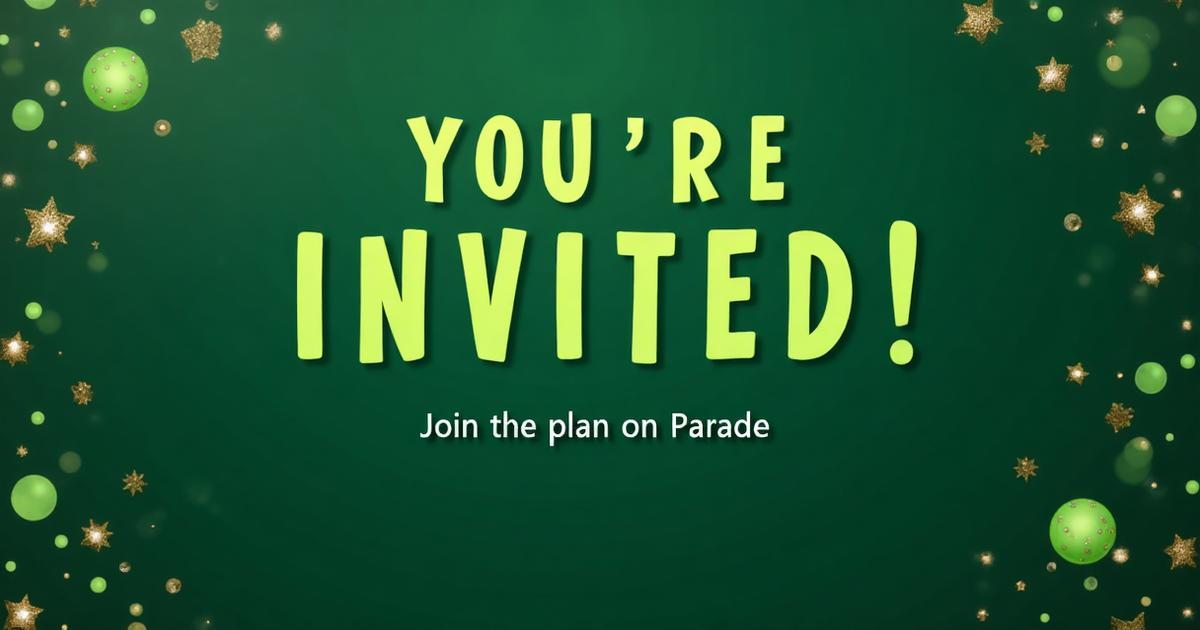
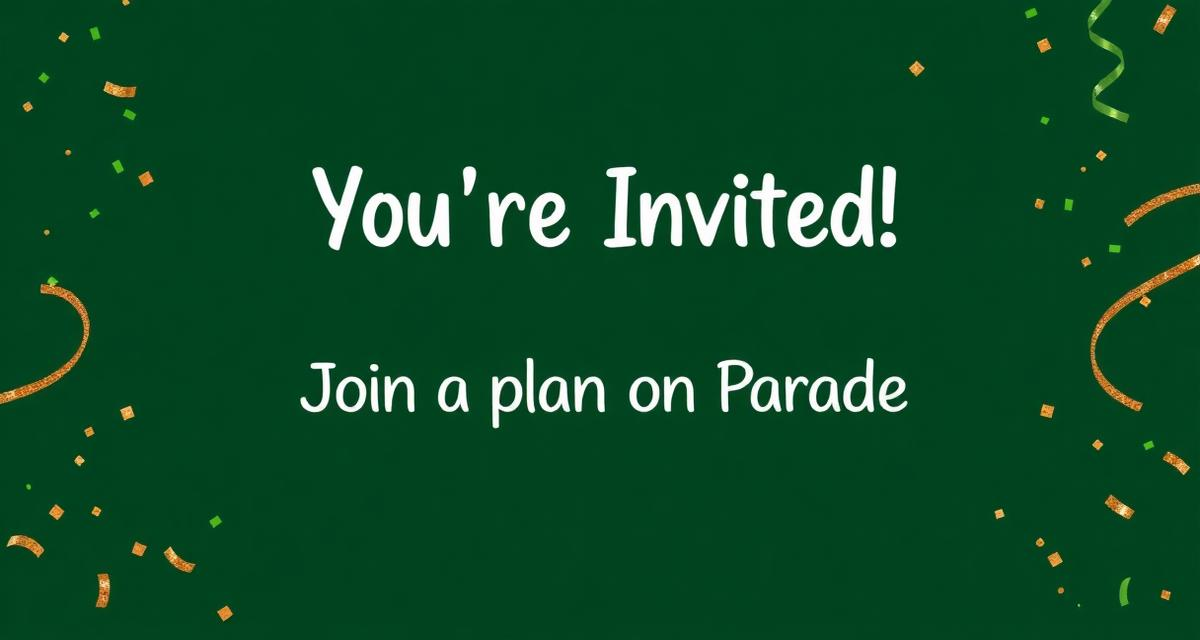
Changes

diff --git a/supabase/functions/plan-invite-og/index.ts b/supabase/functions/plan-invite-og/index.ts
@@ -1,0 +1,44 @@
+// deno-lint-ignore-file
+import { serve } from "https://deno.land/std@0.168.0/http/server.ts";
+
+serve((req) => {
+  const url = new URL(req.url);
+  const token = url.searchParams.get("token") || "";
+
+  // The OG image lives in the public folder of the deployed app
+  const ogImageUrl = "https://helloparade.app/og-invite.png";
+  const redirectUrl = `https://helloparade.app/plan-invite/${encodeURIComponent(token)}`;
+
+  const html = `<!DOCTYPE html>
+<html lang="en">
+<head>
+<meta charset="UTF-8" />
+<meta name="viewport" content="width=device-width, initial-scale=1.0" />
+<title>You're Invited! - Parade</title>
+<meta property="og:title" content="You're Invited! 🎉" />
+<meta property="og:description" content="You've been invited to join a plan on Parade. Tap to view details and RSVP!" />
+<meta property="og:type" content="website" />
+<meta property="og:image" content="${ogImageUrl}" />
+<meta property="og:image:width" content="1200" />
+<meta property="og:image:height" content="630" />
+<meta property="og:site_name" content="Parade" />
+<meta property="og:url" content="${redirectUrl}" />
+<meta name="twitter:card" content="summary_large_image" />
+<meta name="twitter:title" content="You're Invited! 🎉" />
+<meta name="twitter:description" content="You've been invited to join a plan on Parade. Tap to view details and RSVP!" />
+<meta name="twitter:image" content="${ogImageUrl}" />
+<meta http-equiv="refresh" content="0;url=${redirectUrl}" />
+</head>
+<body>
+<p>Redirecting to <a href="${redirectUrl}">Parade</a>...</p>
+</body>
+</html>`;
+
+  return new Response(html, {
+    status: 200,
+    headers: {
+      "content-type": "text/html; charset=utf-8",
+      "cache-control": "public, max-age=3600",
+    },
+  });
+});

diff --git a/src/components/plans/InviteToPlanDialog.tsx b/src/components/plans/InviteToPlanDialog.tsx
@@ -45,9 +45,10 @@ export function InviteToPlanDialog({ open, onOpenChange, planId, planTitle }: In
 
       if (error) throw error;
 
-      // Static HTML page at /i/ has OG meta tags for iMessage/social crawlers.
+      // Edge function serves HTML with OG meta tags for iMessage/social crawlers.
       // Crawlers see "You're Invited!" card; users get redirected to /plan-invite/TOKEN.
-      const ogLink = `https://helloparade.app/i/?t=${data.invite_token}`;
+      const supabaseUrl = import.meta.env.VITE_SUPABASE_URL;
+      const ogLink = `${supabaseUrl}/functions/v1/plan-invite-og?token=${data.invite_token}`;
       const cleanLink = `https://helloparade.app/plan-invite/${data.invite_token}`;
       setGeneratedLink(ogLink);
       setDisplayLink(cleanLink);
@@ -76,8 +77,9 @@ export function InviteToPlanDialog({ open, onOpenChange, planId, planTitle }: In
 
       if (error) throw error;
 
-      // Static HTML page with OG tags for rich link previews in email
-      const inviteUrl = `https://helloparade.app/i/?t=${data.invite_token}`;
+      // Edge function serves HTML with OG tags for rich link previews in email
+      const supabaseUrl = import.meta.env.VITE_SUPABASE_URL;
+      const inviteUrl = `${supabaseUrl}/functions/v1/plan-invite-og?token=${data.invite_token}`;
 
       const inviterName = user?.user_metadata?.display_name || user?.email?.split('@')[0] || 'A friend';
 
